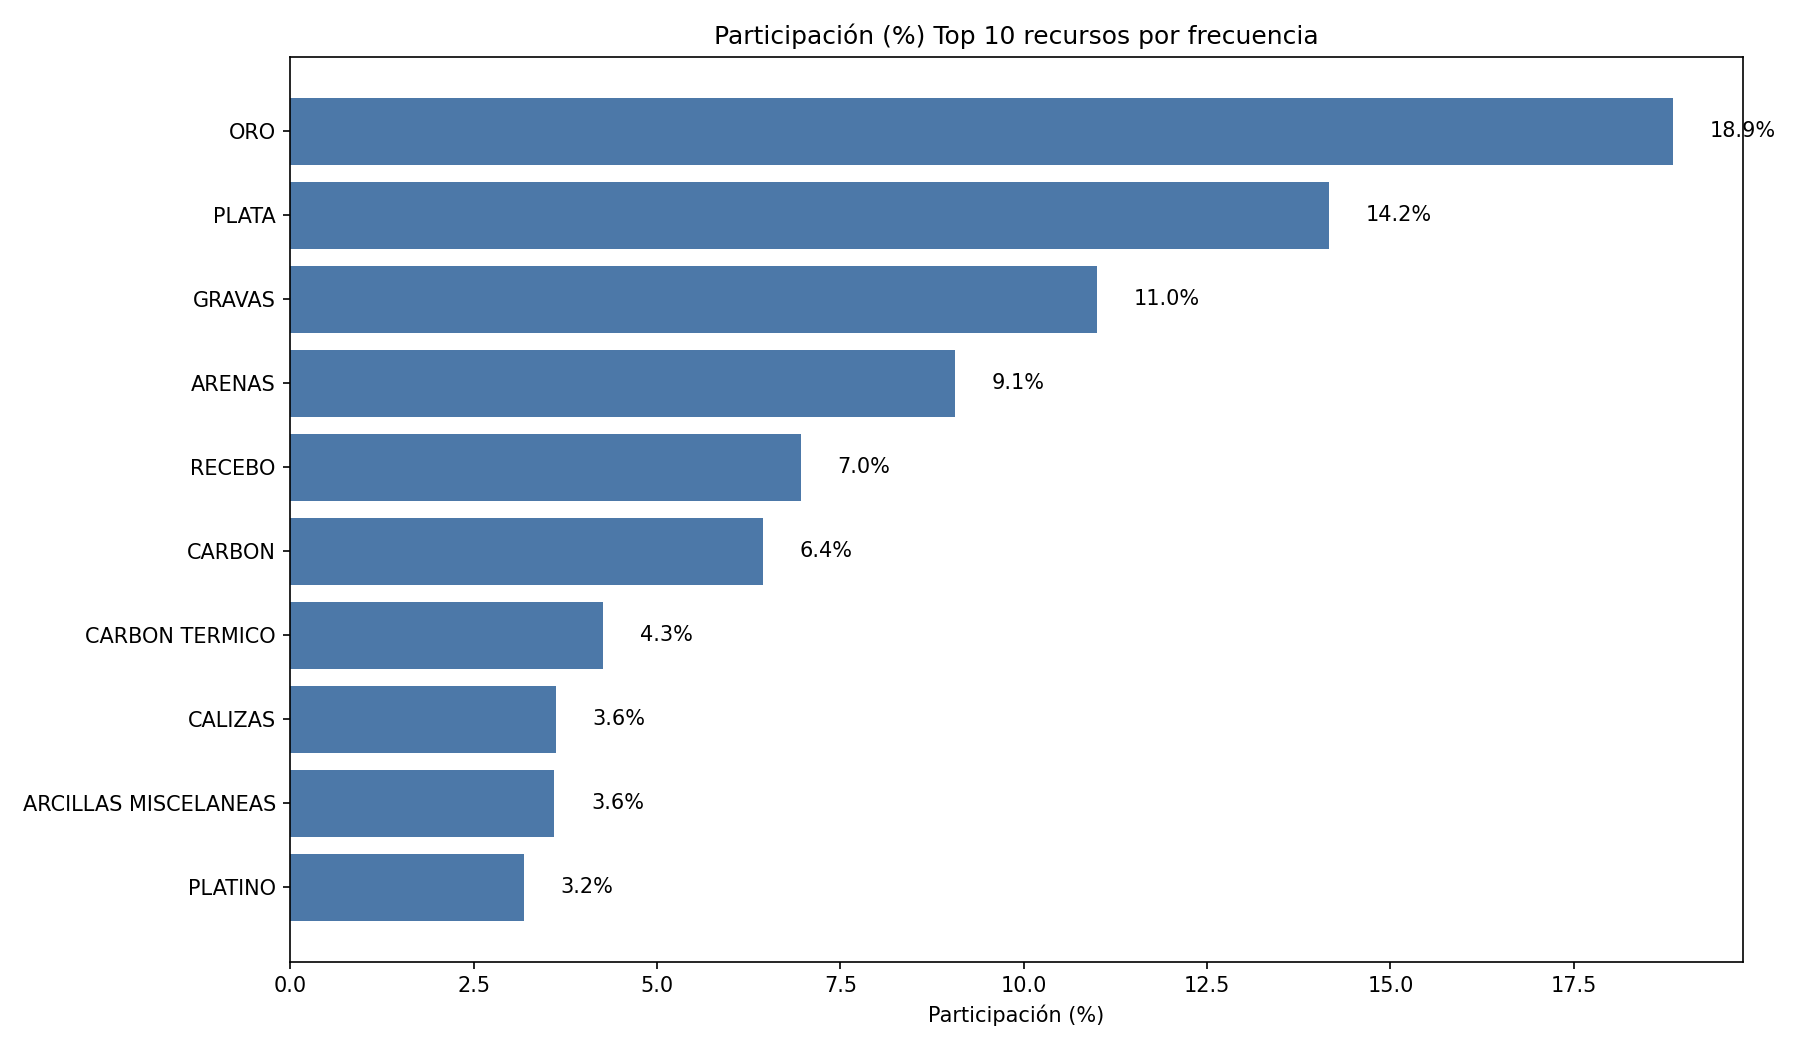
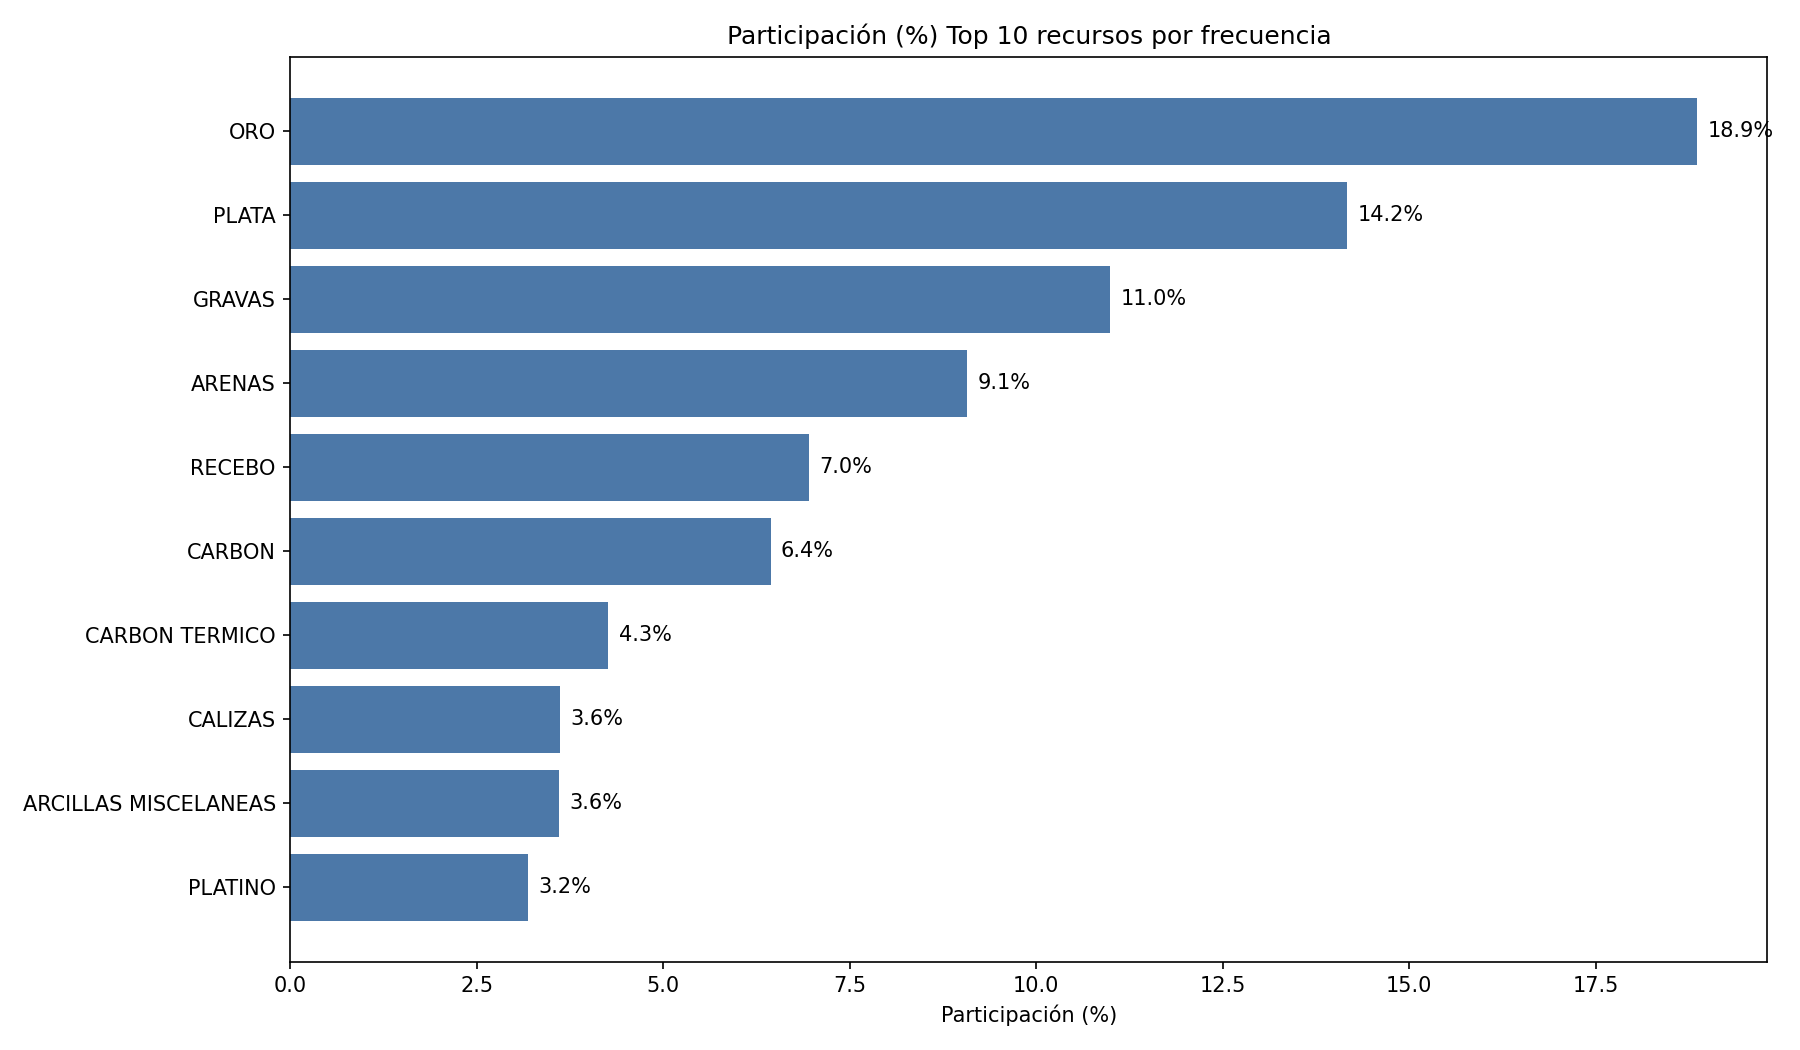
aa

diff --git a/Codigo.py b/Codigo.py
@@ -72,8 +72,7 @@ bars = plt.barh(top10_pct["Recurso"], top10_pct["Porcentaje"], color="#4C78A8")
 plt.gca().invert_yaxis()
 plt.xlabel("Participación (%)")
 plt.title("Participación (%) Top 10 recursos por frecuencia")
-for i, v in enumerate(top10_pct["Porcentaje"]):
-    plt.text(v + 0.5, i, f"{v:.1f}%", va="center")
+plt.bar_label(bars, fmt='%.1f%%', padding=5)
 plt.tight_layout()
 plt.savefig("frecuencia_top10_recursos_barras_pct.png", dpi=150)
 plt.close()
@@ -88,9 +87,7 @@ top_recursos_10 = rec_totales.head(10).index
 pivot_top10 = counts.pivot(index="Departamento", columns="Recurso", values="Frecuencia").fillna(0)
 pivot_top10 = pivot_top10.loc[top_departamentos_10, pivot_top10.columns.intersection(top_recursos_10)]
 
-fig_w = max(10, len(pivot_top10.columns) * 0.8)
-fig_h = max(8, len(pivot_top10.index) * 0.6)
-plt.figure(figsize=(fig_w, fig_h))
+plt.figure(figsize=(12, 8))
 sns.heatmap(pivot_top10, cmap="mako", annot=True, fmt="g", cbar_kws={"label": "Frecuencia"})
 plt.title("Frecuencia Top 10 Departamento × Top 10 Recurso")
 plt.xlabel("Recurso")
